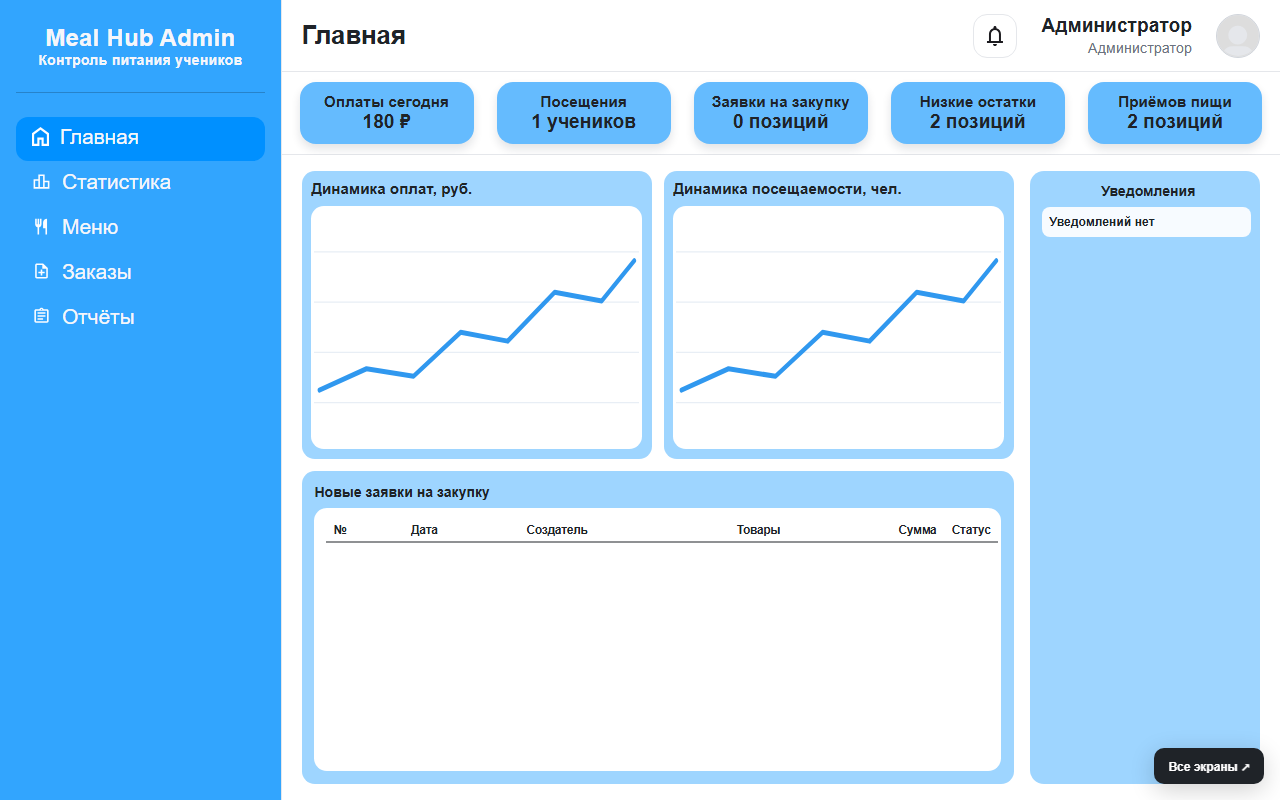
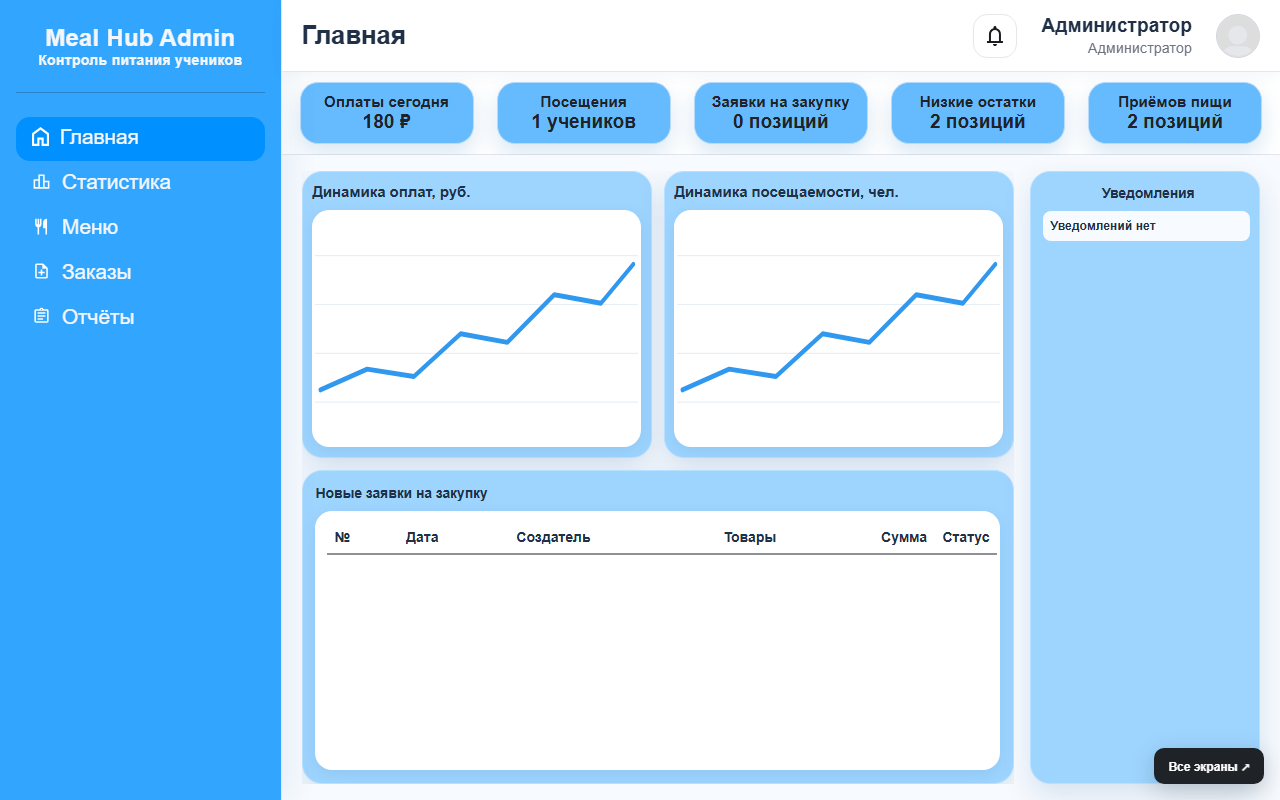
Polish MealHub dashboard demo visuals

diff --git a/demos/mealhub/static/dashboard-polish.css b/demos/mealhub/static/dashboard-polish.css
@@ -1,0 +1,144 @@
+/* Shared visual refinements for the chef and administrator dashboards. */
+* {
+    font-family: "Manrope", Arial, sans-serif;
+}
+
+body {
+    color: #203047;
+    -webkit-font-smoothing: antialiased;
+    text-rendering: optimizeLegibility;
+}
+
+.lefter {
+    box-shadow: 8px 0 28px rgba(21, 100, 168, 0.08);
+}
+
+.admin_main_header {
+    box-shadow: 0 3px 14px rgba(29, 77, 122, 0.05);
+    position: relative;
+    z-index: 1;
+}
+
+.admin_nav_button,
+.admin_nav_slider {
+    border-radius: 14px;
+}
+
+.main_main_panel {
+    background: #f7fafe;
+}
+
+.admin_stat_card {
+    border: 1px solid #b7dcfb;
+    border-radius: 18px;
+    box-shadow: 0 10px 22px rgba(32, 113, 181, 0.17);
+}
+
+.graph_holder,
+.main_orders_panel,
+.main_main_notifications_panel,
+.chef_orders_panel,
+.chef_stocks_panel {
+    border: 1px solid #b9e1ff;
+    border-radius: 20px;
+    box-shadow: 0 12px 28px rgba(32, 103, 162, 0.15);
+}
+
+.graph_canvas,
+.orders_bg,
+.day_menu_panel,
+.chef_orders_table_padder,
+.orders_table_card {
+    border-radius: 17px;
+    box-shadow: 0 5px 15px rgba(31, 86, 133, 0.10);
+}
+
+.graph_holder p,
+.main_orders_panel > p,
+.main_main_notifications_panel > p {
+    line-height: 1.35;
+    letter-spacing: -0.01em;
+}
+
+.orders_table th,
+.orders_table td,
+.chef_orders_table th,
+.chef_orders_table td,
+.chef_stocks_table th,
+.chef_stocks_table td {
+    font-size: clamp(0.875rem, 0.95vw, 1rem);
+    line-height: 1.45;
+}
+
+.day_menu_panel {
+    padding: 7px;
+}
+
+.day_menu_table {
+    padding: 8px;
+    border: 1px solid #e4eef8;
+    border-radius: 16px;
+    background: #f8fbff;
+}
+
+.day_menu_table_body {
+    gap: 8px;
+}
+
+.day_menu_row {
+    grid-template-columns: minmax(90px, 2fr) repeat(3, minmax(74px, 1fr)) repeat(3, minmax(56px, 0.9fr));
+    column-gap: 6px;
+    padding: 9px 11px;
+    border: 1px solid #e0edf9;
+    border-radius: 13px;
+    background: #fff;
+    box-shadow: 0 5px 14px rgba(36, 100, 156, 0.13);
+}
+
+.day_menu_row::after {
+    display: none;
+}
+
+.day_menu_row--head {
+    border-color: #cfe5f9;
+    background: #e9f5ff;
+    box-shadow: none;
+}
+
+.day_menu_row > div {
+    font-size: clamp(0.875rem, 0.95vw, 0.95rem);
+    line-height: 1.4;
+    letter-spacing: 0;
+}
+
+.day_menu_row--head > div {
+    font-size: 0.8125rem;
+    font-weight: 700;
+    color: #344b63;
+}
+
+.day_menu_actions_heading {
+    grid-column: 5 / -1;
+    text-align: center;
+}
+
+.day_menu_tab {
+    border: 1px solid #e2eaf4;
+    border-radius: 13px;
+    box-shadow: 0 4px 11px rgba(29, 78, 130, 0.08);
+}
+
+.day_menu_tab_input:checked + .day_menu_tab {
+    border-color: #2b9bff;
+    box-shadow: 0 7px 15px rgba(43, 155, 255, 0.22);
+}
+
+.day_menu_btn {
+    border-radius: 10px;
+    font-size: 0.8125rem;
+    box-shadow: 0 3px 8px rgba(25, 108, 187, 0.14);
+}
+
+.day_menu_btn--danger {
+    box-shadow: 0 3px 8px rgba(207, 61, 70, 0.16);
+}

diff --git a/demos/mealhub/chef.html b/demos/mealhub/chef.html
@@ -9,7 +9,8 @@
     <link rel="stylesheet" href="static/chef_main/css/chef_main.css">
     <link rel="preconnect" href="https://fonts.googleapis.com">
     <link rel="preconnect" href="https://fonts.gstatic.com" crossorigin>
-    <link href="https://fonts.googleapis.com/css2?family=M+PLUS+Rounded+1c&display=swap" rel="stylesheet">
+    <link href="https://fonts.googleapis.com/css2?family=Manrope:wght@400;500;600;700;800&display=swap" rel="stylesheet">
+    <link rel="stylesheet" href="static/dashboard-polish.css">
     <title>MealHub - Меню повара</title>
 <link rel="stylesheet" href="demo.css">
 </head>
@@ -102,9 +103,7 @@
                                             <div>Заказано</div>
                                             <div>Выдано</div>
                                             <div>Наличие</div>
-                                            <div></div>
-                                            <div>Выдачи</div>
-                                            <div></div>
+                                            <div class="day_menu_actions_heading">Выдачи</div>
                                         </div>
 
 
@@ -117,7 +116,7 @@
 
                                             <div class="day_menu_row" data-meal-id="1"
                                                  data-meal-name="Овсяная каша">
-                                                <div class="day_menu_dish_name" title="Овсяная каша">Овсяная к…</div>
+                                                <div class="day_menu_dish_name" title="Овсяная каша">Овсяная каша</div>
 
                                                 <div class="ordered-count" data-field="ordered">
 
@@ -168,7 +167,7 @@
 
                                             <div class="day_menu_row" data-meal-id="2"
                                                  data-meal-name="Куриный суп">
-                                                <div class="day_menu_dish_name" title="Куриный суп">Куриный с…</div>
+                                                <div class="day_menu_dish_name" title="Куриный суп">Куриный суп</div>
 
                                                 <div class="ordered-count" data-field="ordered">
 
@@ -212,7 +211,7 @@
 
                                             <div class="day_menu_row" data-meal-id="3"
                                                  data-meal-name="Рис с овощами">
-                                                <div class="day_menu_dish_name" title="Рис с овощами">Рис с ово…</div>
+                                                <div class="day_menu_dish_name" title="Рис с овощами">Рис с овощами</div>
 
                                                 <div class="ordered-count" data-field="ordered">
 

diff --git a/demos/mealhub/admin.html b/demos/mealhub/admin.html
@@ -7,7 +7,8 @@
     <link rel="stylesheet" href="static/admin_main/css/admin_main.css">
     <link rel="preconnect" href="https://fonts.googleapis.com">
     <link rel="preconnect" href="https://fonts.gstatic.com" crossorigin>
-    <link href="https://fonts.googleapis.com/css2?family=M+PLUS+Rounded+1c&display=swap" rel="stylesheet">
+    <link href="https://fonts.googleapis.com/css2?family=Manrope:wght@400;500;600;700;800&display=swap" rel="stylesheet">
+    <link rel="stylesheet" href="static/dashboard-polish.css">
     <title>MealHub - Меню админа</title>
 <link rel="stylesheet" href="demo.css">
 </head>
